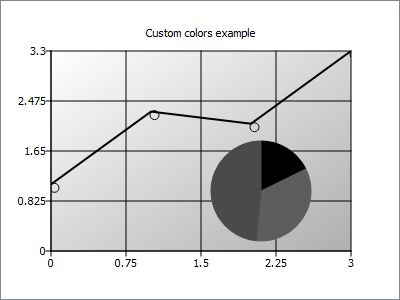
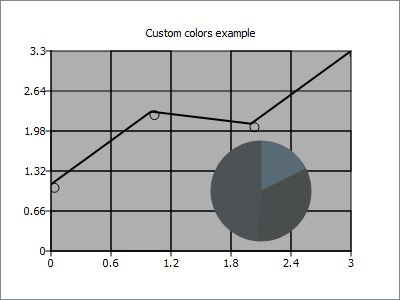
Improved custom color example documentation

diff --git a/qtcharts/examples/customcolors/mainwindow.cpp b/qtcharts/examples/customcolors/mainwindow.cpp
@@ -22,7 +22,10 @@ MainWindow::MainWindow(QWidget *parent)
     setWindowFlags(Qt::FramelessWindowHint);
 
     // Create chart view
+    //! [4]
     m_chartView = new QChartView(this);
+    m_chartView->setChartTheme(QChart::ChartThemeScientific);
+    //! [4]
     setCentralWidget(m_chartView);
     m_chartView->setChartTitle("Custom colors example");
     m_chartView->setRenderHint(QPainter::Antialiasing);
